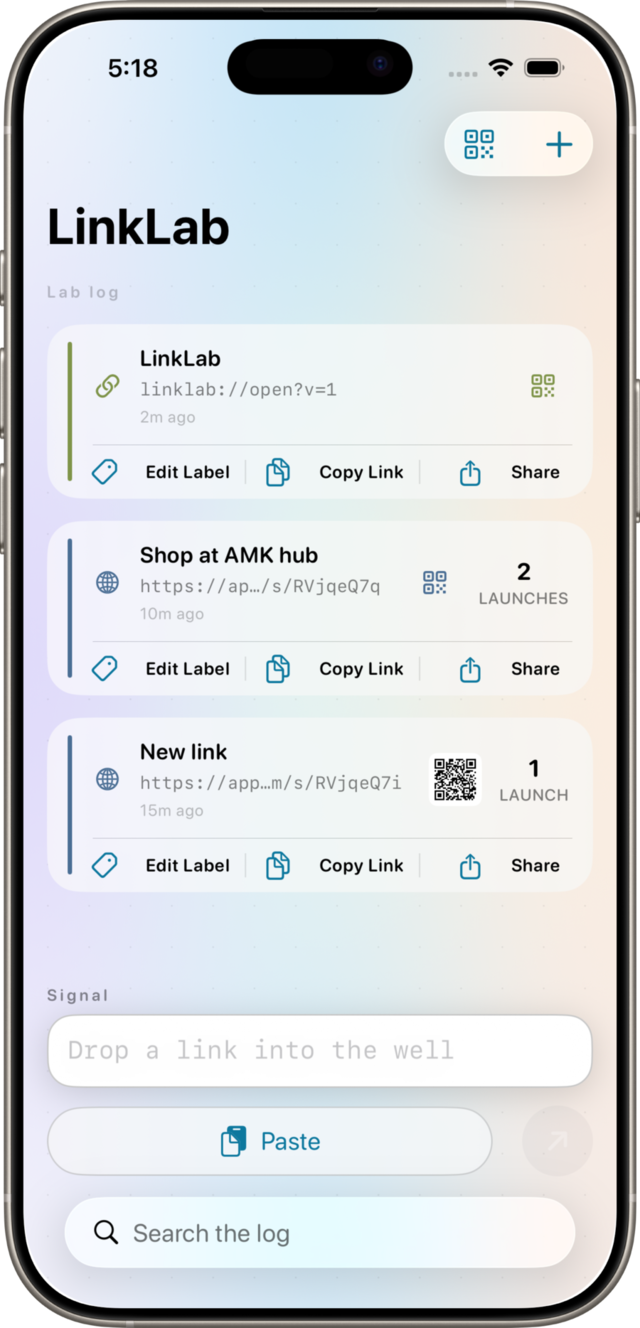
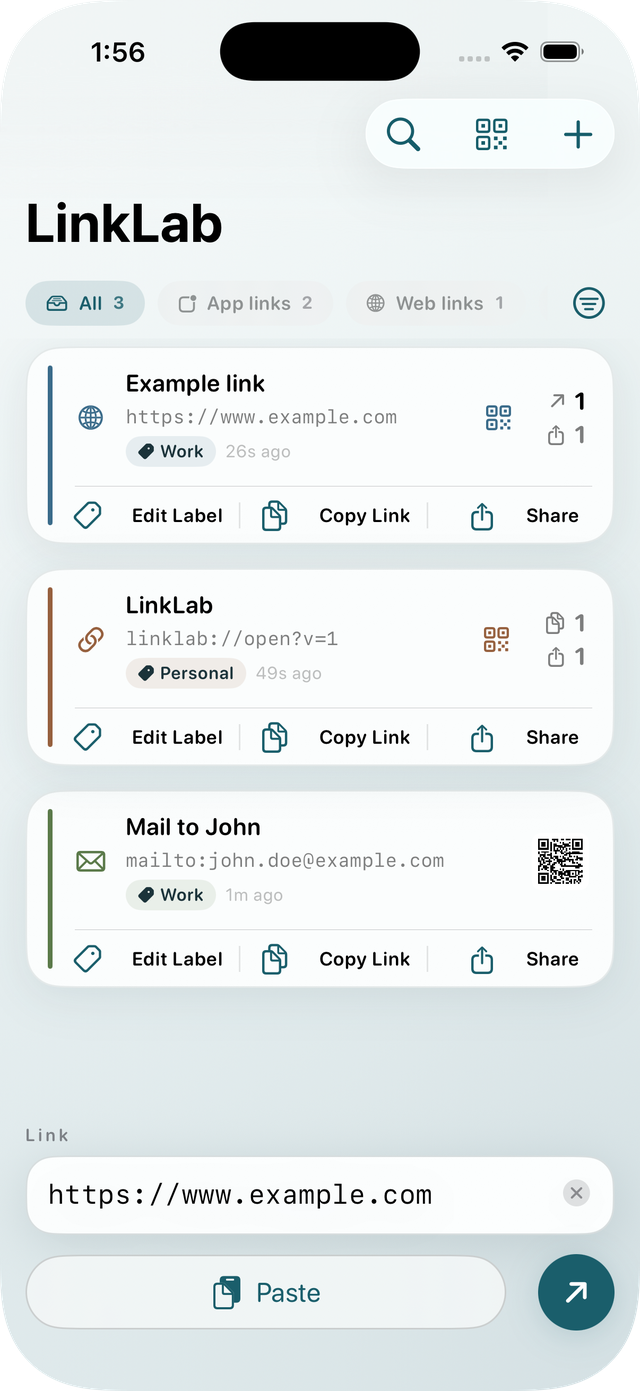
Rewrite the LinkLab page around saving links from any app
LinkLab 1.1 adds a share extension, per-card categories, and a calmer list,
and the app is for anyone whose links are scattered across their apps rather
than only developers. The page led with deep link launching, which buried the
part most people would care about.

Reorder the sections to open on saving a link from another app's share sheet,
then labels and categories, finding a link again, QR codes, and finally custom
schemes as a bonus rather than the pitch. Replace the screenshots with 1.1.0
captures, adding share sheet, save sheet and category shots in both themes.
Note the extension's local app group storage in the privacy policy.

Claude-Session: https://claude.ai/code/session_01Y5d9WJwAfKHMb8iS2ELQHm

diff --git a/docs/linklab/index.html b/docs/linklab/index.html
@@ -3,12 +3,12 @@
 <head>
   <meta charset="UTF-8" />
   <meta name="viewport" content="width=device-width, initial-scale=1.0" />
-  <title>LinkLab — Save, Share & QR Any Link</title>
-  <meta name="description" content="LinkLab is a deep link launcher for iPhone and iPad, free on the App Store. Open and test any URL or custom scheme, file and pin links without launching them, and turn any link into a QR code — entirely on-device." />
+  <title>LinkLab — All your links in one place</title>
+  <meta name="description" content="LinkLab keeps the links scattered across your apps in one place on iPhone and iPad, free on the App Store. Save a link from any app's share sheet, label it, sort it into your own categories, and turn it into a QR code — entirely on-device." />
   <meta name="theme-color" content="#eef6f7" />
 
-  <meta property="og:title" content="LinkLab — Save, Share & QR Any Link" />
-  <meta property="og:description" content="Paste or type any URL — including custom deep-link schemes — launch it, file it, pin it, or turn it into a QR code. LinkLab runs entirely on your device. Free on the App Store." />
+  <meta property="og:title" content="LinkLab — All your links in one place" />
+  <meta property="og:description" content="A page in your browser, a booking in an email, a recipe in a group chat. Share them into LinkLab, label them, and find them again in seconds. Runs entirely on your device. Free on the App Store." />
   <meta property="og:type" content="website" />
 
   <link rel="icon" href="assets/favicon.ico" sizes="any" />
@@ -296,6 +296,30 @@
       body.light img.dark-only { display: none; }
     }
 
+    .feature-shot {
+      grid-column: 1 / -1;
+      display: flex;
+      justify-content: center;
+      margin-top: 1.5rem;
+    }
+    .feature-shot img {
+      max-width: 100%;
+      height: auto;
+      max-height: 520px;
+      filter: drop-shadow(var(--shot-shadow));
+    }
+    .tag-new {
+      display: inline-block;
+      margin-left: 0.5rem;
+      padding: 0.15rem 0.45rem;
+      border: 1.5px solid var(--accent);
+      color: var(--accent);
+      font-size: 0.62rem;
+      font-weight: 700;
+      letter-spacing: 0.08em;
+      text-transform: uppercase;
+      vertical-align: middle;
+    }
     section.feature {
       padding: 3.5rem 0;
       border-top: 1.5px solid var(--line-soft);
@@ -390,6 +414,7 @@
       .hero { grid-template-columns: 1fr; min-height: auto; text-align: left; }
       .hero-shot { order: -1; margin-bottom: 1rem; }
       .hero-shot img { max-height: 420px; }
+      .feature-shot img { max-height: 400px; }
       section.feature { grid-template-columns: 1fr; }
     }
 
@@ -422,13 +447,13 @@
 
     <section class="hero">
       <div>
-        <span class="eyebrow">Deep link launcher</span>
-        <p class="live-badge"><span class="dot" aria-hidden="true"></span> Available now on the App Store</p>
-        <h1>Save, share, and QR any link.</h1>
+        <span class="eyebrow">Link organiser</span>
+        <p class="live-badge"><span class="dot" aria-hidden="true"></span> Version 1.1 available on the App Store</p>
+        <h1>All your links, in one place.</h1>
         <p class="lede">
-          LinkLab opens and tests any URL — including custom deep-link schemes most apps make
-          painful to try — then lets you file it, generate a QR code, or share it. All of it
-          stays on your device.
+          Links pile up everywhere — a page you meant to read, a booking buried in an email, a
+          recipe someone sent in a group chat. Share them into LinkLab, give each one a name
+          you'll recognise, and find them again in seconds. All of it stays on your device.
         </p>
         <div class="cta-row">
           <a class="store-btn" href="https://apps.apple.com/in/app/linklab-save-share-qr-code/id6806553994" target="_blank" rel="noopener">
@@ -444,76 +469,109 @@
         </div>
       </div>
       <div class="hero-shot">
-        <img class="light-only" src="assets/hero_home_light.png" alt="LinkLab's lab log showing saved links, ready to launch, copy, or share" />
-        <img class="dark-only" src="assets/hero_home_dark.png" alt="LinkLab's lab log showing saved links, ready to launch, copy, or share" />
+        <img class="light-only" src="assets/hero_home_light.png" alt="LinkLab's saved links list, each entry showing its category, ready to open, copy, or share" />
+        <img class="dark-only" src="assets/hero_home_dark.png" alt="LinkLab's saved links list, each entry showing its category, ready to open, copy, or share" />
       </div>
     </section>
 
     <section class="feature">
       <div>
         <div class="num">01</div>
-        <h2>Open and test any link</h2>
+        <h2>Save a link from any app<span class="tag-new">New in 1.1</span></h2>
       </div>
       <div>
         <p>
-          Paste or type a link into the composer and launch it immediately — https, a custom
-          scheme like <code>myapp://</code>, mailto, tel, whatever you're working with. If
-          nothing on the device can open it, LinkLab tells you plainly instead of failing
-          silently.
+          Hit Share in Safari, Mail, Messages, or anywhere else a link turns up, pick LinkLab,
+          and the save sheet opens right there. Add a label, drop it in a category, done — no
+          app switching, no pasting a URL into a note you'll lose.
         </p>
         <ul>
-          <li>Scheme, host, and parameter count shown at a glance before you launch</li>
-          <li>Custom schemes are first-class — built for links Safari won't even open</li>
+          <li>Works from any app that offers a link to the iOS share sheet</li>
+          <li>The link is waiting in your list the next time you open LinkLab</li>
         </ul>
+      </div>
+      <div class="feature-shot">
+        <img class="light-only" loading="lazy" decoding="async" src="assets/hero_share_light.png" alt="Sharing a link from Safari into LinkLab using the iOS share sheet" />
+        <img class="dark-only" loading="lazy" decoding="async" src="assets/hero_share_dark.png" alt="Sharing a link from Safari into LinkLab using the iOS share sheet" />
       </div>
     </section>
 
     <section class="feature">
       <div>
         <div class="num">02</div>
-        <h2>File a link without launching it</h2>
+        <h2>Give it a label and a home</h2>
       </div>
       <div>
         <p>
-          Save a link to your lab log with an optional label, without opening it. Useful for
-          cataloguing test links, deep links you want to hand off, or anything you want to keep
-          around without triggering it yet.
+          A URL is a terrible name for anything. Save a link with a label you'll actually
+          recognise later, and file it under a category you named yourself — Recipes, Work, To
+          Read, Bills, whatever fits the way you think.
         </p>
+        <ul>
+          <li>Save a link without opening it, from inside the app or from the share sheet</li>
+          <li>Every saved link shows its category on the card, so you can see what's what</li>
+        </ul>
+      </div>
+      <div class="feature-shot">
+        <img class="light-only" loading="lazy" decoding="async" src="assets/hero_save_light.png" alt="LinkLab's save sheet, with fields for the link, a label, and a category" />
+        <img class="dark-only" loading="lazy" decoding="async" src="assets/hero_save_dark.png" alt="LinkLab's save sheet, with fields for the link, a label, and a category" />
       </div>
     </section>
 
     <section class="feature">
       <div>
         <div class="num">03</div>
-        <h2>Turn any link into a QR code</h2>
+        <h2>Find it again in seconds</h2>
       </div>
       <div>
         <p>
-          Generate a QR code for a saved or in-progress link with one tap. Share it as a PNG,
-          or save a branded copy straight to Photos — hand it to someone else's device without
-          them typing a single character.
+          Everything you save lands in one list, newest first. Filter it down to a single
+          category with a tap, or search by label or URL. Save the same link twice and LinkLab
+          updates the entry you already have instead of piling up duplicates.
         </p>
+        <ul>
+          <li>Pin the links you reach for most — they stay at the top of the list</li>
+          <li>Search sits behind a toolbar button, so your links get the whole screen</li>
+        </ul>
       </div>
-      <div style="grid-column: 1 / -1; display: flex; justify-content: center; margin-top: 1rem;">
-        <img class="light-only" src="assets/hero_qr_light.png" alt="A generated QR code ready to share or save to Photos" style="max-width: 320px; width: 100%; filter: drop-shadow(var(--shot-shadow));" />
-        <img class="dark-only" src="assets/hero_qr_dark.png" alt="A generated QR code ready to share or save to Photos" style="max-width: 320px; width: 100%; filter: drop-shadow(var(--shot-shadow));" />
+      <div class="feature-shot">
+        <img class="light-only" loading="lazy" decoding="async" src="assets/hero_categories_light.png" alt="LinkLab's category menu, filtering saved links down to one category" />
+        <img class="dark-only" loading="lazy" decoding="async" src="assets/hero_categories_dark.png" alt="LinkLab's category menu, filtering saved links down to one category" />
       </div>
     </section>
 
     <section class="feature">
       <div>
         <div class="num">04</div>
-        <h2>A local log, searchable and pinnable</h2>
+        <h2>Turn any link into a QR code</h2>
       </div>
       <div>
         <p>
-          Every link you launch or file lands in one searchable log, newest first. Re-launching
-          or re-saving the same link updates its entry instead of duplicating it, so your
-          history stays clean no matter how many times you're testing the same deep link.
+          Generate a QR code for any saved link with one tap. Share it, or save it straight to
+          Photos. It's the quickest way to get a link onto someone else's phone — the check-in
+          page, the shared album, the menu — without them typing a single character.
+        </p>
+      </div>
+      <div class="feature-shot">
+        <img class="light-only" loading="lazy" decoding="async" src="assets/hero_qr_light.png" alt="A generated QR code ready to share or save to Photos" style="max-width: 320px;" />
+        <img class="dark-only" loading="lazy" decoding="async" src="assets/hero_qr_dark.png" alt="A generated QR code ready to share or save to Photos" style="max-width: 320px;" />
+      </div>
+    </section>
+
+    <section class="feature">
+      <div>
+        <div class="num">05</div>
+        <h2>Opens anything, not just web pages</h2>
+      </div>
+      <div>
+        <p>
+          Tap a saved link and LinkLab hands it to whatever app on your device can open it — a
+          web page to your browser, an address to Maps, an email to Mail. If nothing on the
+          device can open it, LinkLab says so plainly instead of doing nothing.
         </p>
         <ul>
-          <li>Swipe or long-press any entry to pin it — pinned links stay at the top, above the newest-first order</li>
-          <li>Search by label or URL to find a link in a log of any size</li>
+          <li>Custom app links work too — the <code>myapp://</code> kind Safari won't touch</li>
+          <li>Which makes it a genuinely useful scratchpad if you build or test apps for a living</li>
         </ul>
       </div>
     </section>
@@ -521,9 +579,10 @@
     <section class="closing">
       <h2>Runs entirely on your device</h2>
       <p>
-        LinkLab has no network code — no server, no account, no analytics, no third-party SDK.
-        QR codes are generated on-device, and Photos access is add-only, requested only the
-        moment you choose to save an image.
+        LinkLab has no network code at all — no server, no account, no sign-up, no analytics, no
+        third-party SDK. There is nowhere for your links to be sent. QR codes are generated on
+        your device, and Photos access is add-only, requested only the moment you choose to save
+        an image.
       </p>
       <a href="privacy-policy.html" class="hub-link">Read the full privacy policy →</a>
       <div class="cta-row" style="justify-content: center; margin-top: 2rem;">

diff --git a/docs/linklab/privacy-policy.html b/docs/linklab/privacy-policy.html
@@ -297,10 +297,10 @@
     <header class="doc-head">
       <span class="doc-label">Legal</span>
       <h1>Privacy Policy</h1>
-      <p class="effective-date">Effective August 29, 2026</p>
+      <p class="effective-date">Effective September 5, 2026</p>
       <p class="lede">
-        LinkLab opens, saves, and shares links, and turns them into QR codes. Everything it
-        does — launching a URL, filing it to your log, generating a code — happens on the
+        LinkLab saves, organises, opens and shares links, and turns them into QR codes.
+        Everything it does — saving a link, opening a URL, generating a code — happens on the
         device you're using. This page explains exactly what that means.
       </p>
       <div class="stack">
@@ -334,7 +334,7 @@
         <li><strong>No internet connection —</strong> LinkLab has no network code at all. There is nothing to send your links to.</li>
         <li><strong>No analytics or crash reporting —</strong> no third-party SDKs of any kind.</li>
         <li><strong>No account or login —</strong> nothing to sign in to, nothing stored about you server-side.</li>
-        <li><strong>No sharing —</strong> your links and lab log never leave the device unless you explicitly tap Share.</li>
+        <li><strong>No sharing —</strong> your saved links never leave the device unless you explicitly tap Share.</li>
       </ul>
     </section>
 
@@ -354,12 +354,19 @@
     <section id="local">
       <div class="section-head">
         <h2>Local storage</h2>
-        <p>Your lab log stays on your device, never anywhere else.</p>
+        <p>Your saved links stay on your device, never anywhere else.</p>
       </div>
       <p style="max-width: 62ch; color: var(--muted);">
-        Links you launch or file — along with any label and generated QR code image — are
-        stored locally using Apple's SwiftData framework. This is removed automatically if you
-        delete the app.
+        Links you save or open — along with any label, category, and generated QR code image —
+        are stored locally using Apple's SwiftData framework. This is removed automatically if
+        you delete the app.
+      </p>
+      <p style="max-width: 62ch; color: var(--muted);">
+        LinkLab's share extension, which lets you save a link from another app's share sheet,
+        writes to that same local store. The app and the extension reach it through an iOS app
+        group — a shared container on your own device, not a server. A link shared into LinkLab
+        is read, saved, and nothing else; the extension makes no network requests and requests
+        no permissions.
       </p>
     </section>
 

diff --git a/docs/index.html b/docs/index.html
@@ -364,7 +364,7 @@
                 <span class="project-index">04</span>
                 <div class="project-main">
                     <h3>LinkLab</h3>
-                    <p>Save, share, and QR any link. A deep link launcher for iPhone and iPad — now on the App Store.</p>
+                    <p>All your links in one place. Save one from any app's share sheet, label it, sort it, QR it — on iPhone and iPad, entirely offline.</p>
                 </div>
                 <span class="project-go" aria-hidden="true">&rarr;</span>
             </a>
